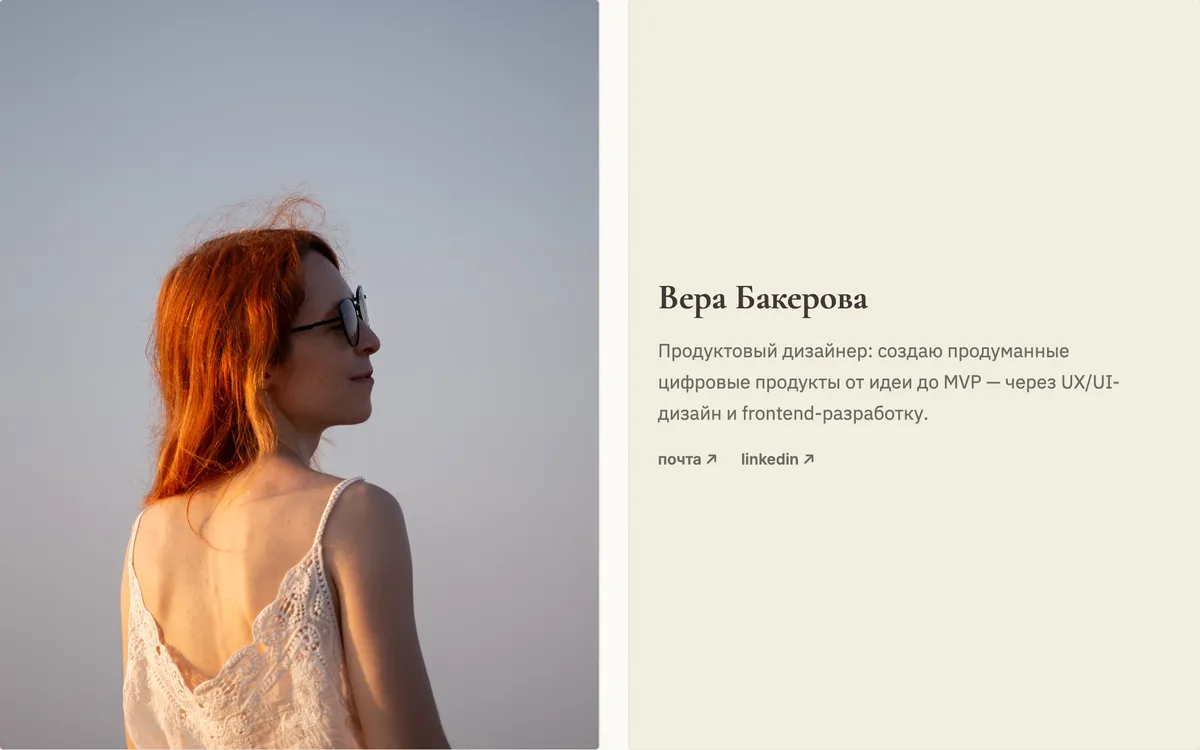
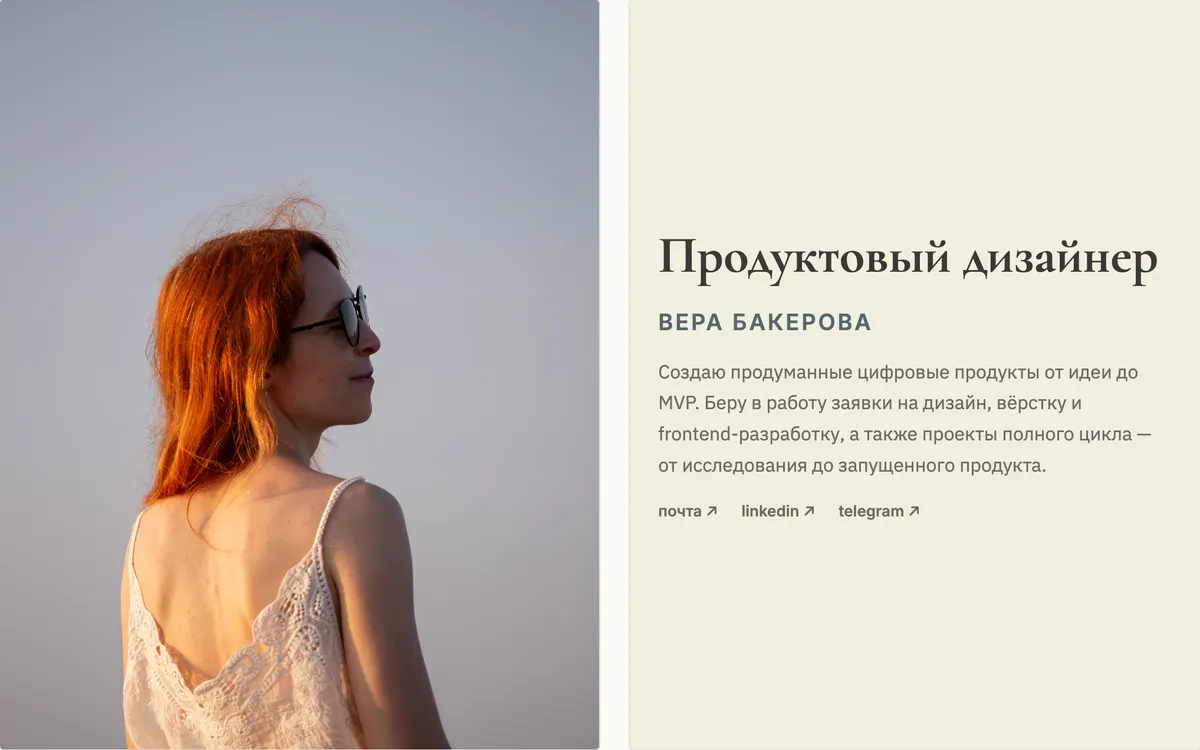
Rework hero heading and phone layout; refresh covers
- Hero card: "Product Designer" as the main heading above the name
- Phones: no name/role in header, bio card and CTA buttons above the
  portrait, "Start a project" above Selected Projects, tighter section
  gaps, language switcher on the socials row
- Ascendra login screenshot trimmed; Product Designer covers refreshed

diff --git a/src/data/profile.ts b/src/data/profile.ts
@@ -21,9 +21,9 @@ export const profile: Profile = {
   name: { en: 'Vera Bakerava', ru: 'Вера Бакерова', be: 'Вера Бакерава' },
   initials: { en: 'VB', ru: 'ВБ', be: 'ВБ' },
   bio: {
-    en: 'Product Designer building thoughtful digital products from idea to MVP. I take on requests for design, frontend development and full-cycle projects — from discovery to a launched product.',
-    ru: 'Продуктовый дизайнер: создаю продуманные цифровые продукты от идеи до MVP. Беру в работу заявки на дизайн, вёрстку и frontend-разработку, а также проекты полного цикла — от исследования до запущенного продукта.',
-    be: 'Прадуктовы дызайнер: ствараю прадуманыя лічбавыя прадукты ад ідэі да MVP. Бяру ў працу заяўкі на дызайн, вёрстку і frontend-распрацоўку, а таксама праекты поўнага цыкла — ад даследавання да запушчанага прадукту.',
+    en: 'I build thoughtful digital products from idea to MVP. I take on requests for design, frontend development and full-cycle projects — from discovery to a launched product.',
+    ru: 'Создаю продуманные цифровые продукты от идеи до MVP. Беру в работу заявки на дизайн, вёрстку и frontend-разработку, а также проекты полного цикла — от исследования до запущенного продукта.',
+    be: 'Ствараю прадуманыя лічбавыя прадукты ад ідэі да MVP. Бяру ў працу заяўкі на дызайн, вёрстку і frontend-распрацоўку, а таксама праекты поўнага цыкла — ад даследавання да запушчанага прадукту.',
   },
   email: 'verbapho@gmail.com',
   linkedin: 'https://www.linkedin.com/in/vera-bakerava-7a1022a1/',

diff --git a/src/routes/HomePage/HeroCollage.module.css b/src/routes/HomePage/HeroCollage.module.css
@@ -37,37 +37,53 @@
   border-radius: var(--radius-card);
 }
 
-/* Literal per-breakpoint values from the approved wireframe (Home (A),
-   detailed) — resolves the sizing question in DECISIONS.md in favor of the
-   wireframe over ARCHITECTURE.md §15's broader range. */
-.name {
+.heading {
+  display: flex;
+  flex-direction: column;
+  gap: var(--space-5);
+}
+
+/* Main heading: the role ("Product Designer") in the serif display face,
+   with the name beneath it as an uppercase sans line. The Header's tagline
+   is hidden on desktop Home (IdentityRail replaces the Header), so the role
+   leads here. */
+.role {
   margin: 0;
   font-family: var(--font-heading);
   font-weight: 700;
-  line-height: 1.05;
-  font-size: 21px;
+  line-height: 1.1;
+  font-size: 34px;
   color: var(--color-text-primary);
 }
 
 @media (min-width: 768px) {
-  .name {
-    font-size: 24px;
-  }
-}
-
-@media (min-width: 1024px) {
-  .name {
-    font-size: 25px;
+  .role {
+    font-size: 38px;
   }
 }
 
 @media (min-width: 1440px) {
-  .name {
-    font-size: 30px;
+  .role {
+    font-size: 44px;
   }
 }
 
-.bio {
+.name {
+  margin: 0;
+  font-family: var(--font-body);
+  font-weight: 600;
+  line-height: 1.3;
+  font-size: 16px;
+  letter-spacing: 0.1em;
+  text-transform: uppercase;
+  color: var(--color-brand-700);
+}
+
+@media (min-width: 1440px) {
+  .name {
+    font-size: 19px;
+  }
+}.bio {
   margin: 0;
   max-width: 420px;
   font-family: var(--font-editorial);
@@ -131,4 +147,21 @@
   display: block;
   width: 100%;
   height: auto;
+}
+
+/* CTA row spans the full grid width under the band. */
+.cta {
+  grid-column: 1 / -1;
+}
+
+/* Single-column layout (<768px): bio card first, then the CTA buttons, then
+   the portrait and the band. */
+@media (max-width: 767.98px) {
+  .bioPanel {
+    order: -2;
+  }
+
+  .cta {
+    order: -1;
+  }
 }

diff --git a/src/routes/HomePage/HeroCollage.tsx b/src/routes/HomePage/HeroCollage.tsx
@@ -2,12 +2,14 @@ import { Link } from 'react-router-dom';
 import { profile } from '../../data/profile';
 import { useLocale } from '../../i18n/LocaleContext';
 import { trackGoal } from '../../lib/analytics';
+import IntroBlock from './IntroBlock';
 import portraitSrc from '../../../assets/images/portrrait5.webp';
 import heroWorkSrc from '../../../assets/images/social_radar_work.webp';
 import styles from './HeroCollage.module.css';
 
-// Portrait + bio panel side by side, with the Social Radar showcase image as
-// the wide band below (links to the Portfolio page).
+// Portrait + bio panel side by side, the Social Radar showcase image as the
+// wide band below (links to the Portfolio page), then the CTA buttons. On
+// phones the order becomes: bio, buttons, portrait, band.
 export default function HeroCollage() {
   const { t, l } = useLocale();
 
@@ -16,7 +18,10 @@ export default function HeroCollage() {
       <img src={portraitSrc} alt={l(profile.name)} className={styles.portraitImage} />
 
       <div className={styles.bioPanel}>
-        <h1 className={styles.name}>{l(profile.name)}</h1>
+        <div className={styles.heading}>
+          <h1 className={styles.role}>{t.header.tagline}</h1>
+          <p className={styles.name}>{l(profile.name)}</p>
+        </div>
         <p className={styles.bio}>{l(profile.bio)}</p>
 
         <div className={styles.contacts}>
@@ -51,6 +56,12 @@ export default function HeroCollage() {
       <Link to="/portfolio" className={styles.wideBand}>
         <img src={heroWorkSrc} alt="Social Radar" className={styles.wideBandImage} />
       </Link>
+
+      {/* CTA buttons — part of the grid so phones can move them right under
+          the bio card (see .cta order below 768px). */}
+      <div className={styles.cta}>
+        <IntroBlock />
+      </div>
     </div>
   );
 }

diff --git a/src/components/layout/Header.module.css b/src/components/layout/Header.module.css
@@ -158,3 +158,63 @@
     margin-left: var(--space-4);
   }
 }
+
+/* Small screens (<768px): no name/role in the header — on Home the bio card
+   (name, role, intro) leads the page instead. Between 478px and 768px the
+   bar is then empty (socials live in the nav row), so it's hidden; below
+   478px it keeps just the socials, on the right. */
+@media (max-width: 767.98px) {
+  .wordmark {
+    display: none;
+  }
+}
+
+@media (min-width: 478px) and (max-width: 767.98px) {
+  .bar {
+    display: none;
+  }
+}
+
+@media (max-width: 767.98px) {
+  .nav {
+    padding-top: var(--space-4);
+  }
+}
+
+@media (max-width: 477.98px) {
+  .nav {
+    padding-top: 0;
+  }
+}
+
+/* 478–767px: links take the first row; the language switcher (left) and
+   the socials (right) share the second. */
+@media (min-width: 478px) and (max-width: 767.98px) {
+  .nav > ul:first-child {
+    flex-basis: 100%;
+  }
+
+  .languageSwitcher {
+    margin-left: 0;
+  }
+
+  .socialsNav {
+    margin-left: auto;
+  }
+}
+
+/* Language switcher placement: in the nav row from 478px up; below that it
+   moves to the top row, pinned left, opposite the socials. */
+.switcherBar {
+  display: none !important;
+}
+
+@media (max-width: 477.98px) {
+  .switcherBar {
+    display: inline-flex !important;
+  }
+
+  .languageSwitcher {
+    display: none !important;
+  }
+}

diff --git a/src/routes/HomePage/SelectedProjectsSection.tsx b/src/routes/HomePage/SelectedProjectsSection.tsx
@@ -4,6 +4,7 @@ import Button from '../../components/ui/Button';
 import ProjectsTable from '../../components/project/ProjectsTable';
 import { projects, type Project } from '../../data/projects';
 import { useLocale } from '../../i18n/LocaleContext';
+import { trackGoal } from '../../lib/analytics';
 import styles from './SelectedProjectsSection.module.css';
 
 // Rows shown while the table is collapsed, in this order. "Show all" adds
@@ -21,6 +22,15 @@ export default function SelectedProjectsSection() {
 
   return (
     <section aria-label={t.home.selectedProjectsLabel} className={styles.section}>
+      {/* Phones only — the hero's "Start a project" button moves here. */}
+      <Button
+        variant="primary"
+        href="/services"
+        className={styles.orderButton}
+        onClick={() => trackGoal('order_cta_click', { place: 'projects' })}
+      >
+        {t.home.orderCta}
+      </Button>
       <SectionLabel>{t.home.selectedProjectsLabel}</SectionLabel>
       <div id="selected-projects-table">
         <ProjectsTable projects={expanded ? [...featured, ...rest] : featured} />

diff --git a/src/routes/HomePage/IntroBlock.tsx b/src/routes/HomePage/IntroBlock.tsx
@@ -15,7 +15,14 @@ export default function IntroBlock() {
         <Button variant="primary" href="/portfolio" onClick={() => trackGoal('view_portfolio_click')}>
           {t.home.viewPortfolio}
         </Button>
-        <Button variant="primary" href="/services" onClick={() => trackGoal('order_cta_click')}>
+        {/* Hidden on phones — there it sits above the projects table instead
+            (see SelectedProjectsSection). */}
+        <Button
+          variant="primary"
+          href="/services"
+          className={styles.orderButton}
+          onClick={() => trackGoal('order_cta_click', { place: 'hero' })}
+        >
           {t.home.orderCta}
         </Button>
         <Button

diff --git a/src/components/layout/Header.tsx b/src/components/layout/Header.tsx
@@ -60,7 +60,9 @@ export default function Header({ collapseOnRail = false }: HeaderProps) {
         <Link to="/" className={styles.wordmark}>
           {l(profile.name)}
         </Link>
-        {/* <478px only — see .socialsBar */}
+        {/* <478px only — language switcher on the left, socials on the right
+            of the top row (see .switcherBar / .socialsBar) */}
+        <LanguageSwitcher className={styles.switcherBar} />
         <SocialsList className={styles.socialsBar} />
         <Link to="/" className={`${styles.wordmark} ${styles.tagline}`}>
           {t.header.tagline}

diff --git a/src/routes/HomePage/HomePage.tsx b/src/routes/HomePage/HomePage.tsx
@@ -1,5 +1,4 @@
 import HeroCollage from './HeroCollage';
-import IntroBlock from './IntroBlock';
 import StackSection from './StackSection';
 import AboutSection from './AboutSection';
 import SelectedProjectsSection from './SelectedProjectsSection';
@@ -10,7 +9,6 @@ export default function HomePage() {
   return (
     <div className={styles.page}>
       <HeroCollage />
-      <IntroBlock />
       <StackSection />
       <AboutSection />
       <SelectedProjectsSection />

diff --git a/src/routes/HomePage/SelectedProjectsSection.module.css b/src/routes/HomePage/SelectedProjectsSection.module.css
@@ -8,3 +8,22 @@
 .toggle {
   align-self: center;
 }
+
+/* Phones only: "Start a project" above the table, full width. */
+.orderButton {
+  display: none !important;
+}
+
+@media (max-width: 767.98px) {
+  .orderButton {
+    display: inline-flex !important;
+    width: 100%;
+  }
+}
+
+/* Phones: tighter section rhythm than the desktop 83px. */
+@media (max-width: 767.98px) {
+  .section {
+    margin-top: var(--space-10);
+  }
+}

diff --git a/src/routes/HomePage/IntroBlock.module.css b/src/routes/HomePage/IntroBlock.module.css
@@ -2,7 +2,6 @@
   display: flex;
   flex-direction: column;
   gap: var(--space-6);
-  margin-top: var(--space-5);
 }
 
 .ctaRow {
@@ -77,5 +76,11 @@
 @media (min-width: 1440px) {
   .resumeHint {
     display: inline;
+  }
+}
+
+@media (max-width: 767.98px) {
+  .orderButton {
+    display: none !important;
   }
 }

diff --git a/src/routes/HomePage/StackSection.module.css b/src/routes/HomePage/StackSection.module.css
@@ -18,3 +18,11 @@
   font-size: 13px;
   color: var(--color-text-muted);
 }
+
+/* Phones: the hero ends on the Social Radar photo, so a smaller gap reads
+   better than the desktop 83px. */
+@media (max-width: 767.98px) {
+  .section {
+    margin-top: var(--space-10);
+  }
+}

diff --git a/src/routes/HomePage/AboutSection.module.css b/src/routes/HomePage/AboutSection.module.css
@@ -28,3 +28,10 @@
     align-items: start;
   }
 }
+
+/* Phones: tighter section rhythm than the desktop 83px. */
+@media (max-width: 767.98px) {
+  .about {
+    margin-top: var(--space-10);
+  }
+}
